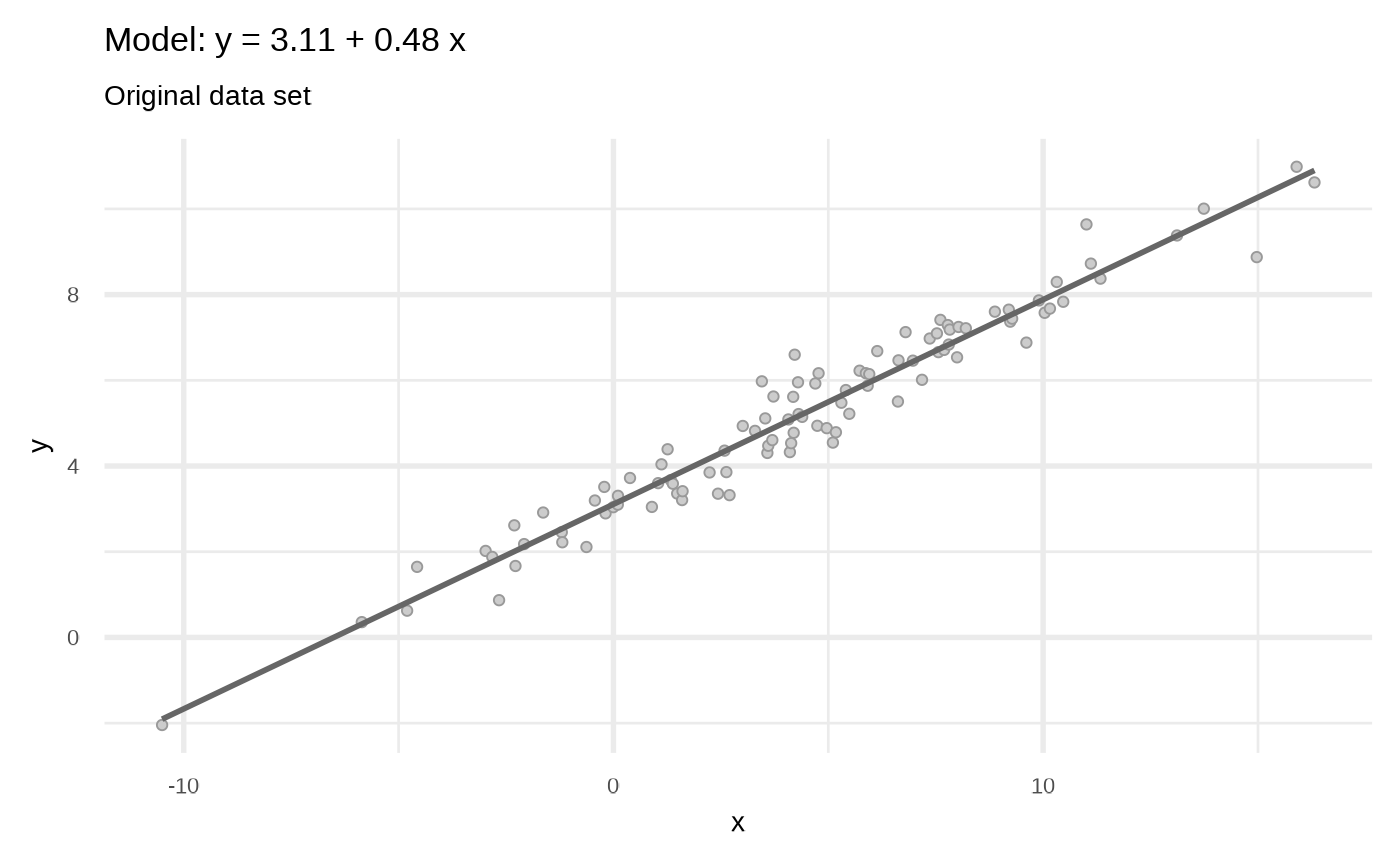
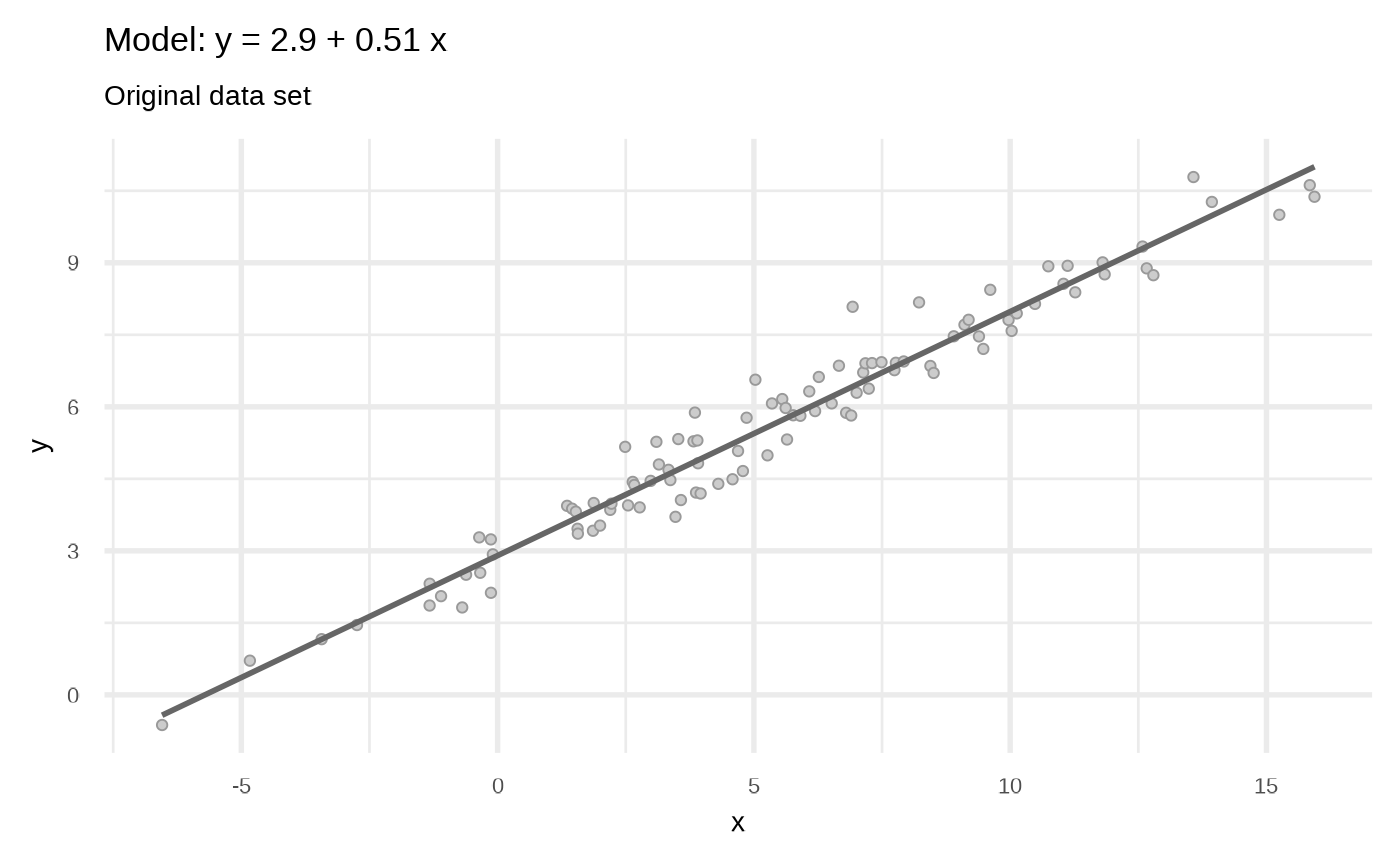
Built site for klassets: 0.0.0.9000@5ac02f5

diff --git a/articles/Quasi-Anscombe-data-sets.html b/articles/Quasi-Anscombe-data-sets.html
@@ -79,17 +79,17 @@
 
     
     
-<div class="sourceCode" id="cb1"><pre class="downlit sourceCode r">
-<code class="sourceCode R"><span class="kw"><a href="https://rdrr.io/r/base/library.html" class="external-link">library</a></span><span class="op">(</span><span class="va"><a href="https://jkunst.com/klassets/" class="external-link">klassets</a></span><span class="op">)</span>
-<span class="kw"><a href="https://rdrr.io/r/base/library.html" class="external-link">library</a></span><span class="op">(</span><span class="va"><a href="https://ggplot2.tidyverse.org" class="external-link">ggplot2</a></span><span class="op">)</span></code></pre></div>
 <div class="section level2">
 <h2 id="the-sets">The sets<a class="anchor" aria-label="anchor" href="#the-sets"></a>
 </h2>
 <div class="section level3">
 <h3 id="set-1-the-original">Set 1: The original<a class="anchor" aria-label="anchor" href="#set-1-the-original"></a>
 </h3>
-<div class="sourceCode" id="cb2"><pre class="downlit sourceCode r">
-<code class="sourceCode R"><span class="co"># df &lt;- sim_quasianscombe_set_1()</span>
+<div class="sourceCode" id="cb1"><pre class="downlit sourceCode r">
+<code class="sourceCode R"><span class="kw"><a href="https://rdrr.io/r/base/library.html" class="external-link">library</a></span><span class="op">(</span><span class="va"><a href="https://jkunst.com/klassets/" class="external-link">klassets</a></span><span class="op">)</span>
+<span class="kw"><a href="https://rdrr.io/r/base/library.html" class="external-link">library</a></span><span class="op">(</span><span class="va"><a href="https://ggplot2.tidyverse.org" class="external-link">ggplot2</a></span><span class="op">)</span>
+
+<span class="fu"><a href="https://rdrr.io/r/base/Random.html" class="external-link">set.seed</a></span><span class="op">(</span><span class="fl">123</span><span class="op">)</span>
 
 <span class="va">df</span> <span class="op">&lt;-</span> <span class="fu"><a href="../reference/sim_quasianscombe_set_1.html">sim_quasianscombe_set_1</a></span><span class="op">(</span>n <span class="op">=</span> <span class="fl">100</span>, x_sd <span class="op">=</span> <span class="fl">5</span><span class="op">)</span>
 
@@ -102,7 +102,7 @@
 <div class="section level3">
 <h3 id="set-4-no-linear-relationship">Set 4: No linear relationship<a class="anchor" aria-label="anchor" href="#set-4-no-linear-relationship"></a>
 </h3>
-<div class="sourceCode" id="cb3"><pre class="downlit sourceCode r">
+<div class="sourceCode" id="cb2"><pre class="downlit sourceCode r">
 <code class="sourceCode R"><span class="va">func</span> <span class="op">&lt;-</span> <span class="kw">function</span><span class="op">(</span><span class="va">x</span><span class="op">)</span> <span class="op">{</span> <span class="fl">2</span> <span class="op">*</span> <span class="va">x</span><span class="op">^</span><span class="fl">2</span>  <span class="op">}</span>
 
 <span class="va">df2_1</span> <span class="op">&lt;-</span> <span class="fu"><a href="../reference/sim_quasianscombe_set_2.html">sim_quasianscombe_set_2</a></span><span class="op">(</span><span class="va">df</span>, residual_factor <span class="op">=</span> <span class="fl">0</span>, fun <span class="op">=</span> <span class="va">func</span><span class="op">)</span>
@@ -114,7 +114,7 @@
 <div class="section level3">
 <h3 id="set-3-extreme-values">Set 3: Extreme values<a class="anchor" aria-label="anchor" href="#set-3-extreme-values"></a>
 </h3>
-<div class="sourceCode" id="cb4"><pre class="downlit sourceCode r">
+<div class="sourceCode" id="cb3"><pre class="downlit sourceCode r">
 <code class="sourceCode R"><span class="va">df3_1</span> <span class="op">&lt;-</span> <span class="fu"><a href="../reference/sim_quasianscombe_set_3.html">sim_quasianscombe_set_3</a></span><span class="op">(</span><span class="va">df</span>, prop <span class="op">=</span> <span class="fl">0.10</span><span class="op">)</span>
 
 <span class="va">df3_2</span> <span class="op">&lt;-</span> <span class="fu"><a href="../reference/sim_quasianscombe_set_3.html">sim_quasianscombe_set_3</a></span><span class="op">(</span><span class="va">df</span>, prop <span class="op">=</span> <span class="fl">0.15</span>, residual_factor <span class="op">=</span> <span class="fl">0</span><span class="op">)</span></code></pre></div>
@@ -122,7 +122,7 @@
 <div class="section level3">
 <h3 id="set-4-clusters">Set 4: Clusters<a class="anchor" aria-label="anchor" href="#set-4-clusters"></a>
 </h3>
-<div class="sourceCode" id="cb5"><pre class="downlit sourceCode r">
+<div class="sourceCode" id="cb4"><pre class="downlit sourceCode r">
 <code class="sourceCode R"><span class="va">df4_1</span> <span class="op">&lt;-</span> <span class="fu"><a href="../reference/sim_quasianscombe_set_4.html">sim_quasianscombe_set_4</a></span><span class="op">(</span><span class="va">df</span>, prop <span class="op">=</span> <span class="fl">0.25</span><span class="op">)</span>
 
 <span class="va">df4_2</span> <span class="op">&lt;-</span> <span class="fu"><a href="../reference/sim_quasianscombe_set_4.html">sim_quasianscombe_set_4</a></span><span class="op">(</span><span class="va">df</span>, rescale_to <span class="op">=</span> <span class="fu"><a href="https://rdrr.io/r/base/c.html" class="external-link">c</a></span><span class="op">(</span><span class="fl">0</span>, <span class="fl">.1</span><span class="op">)</span>, prop <span class="op">=</span> <span class="fl">0.5</span><span class="op">)</span></code></pre></div>
@@ -130,7 +130,7 @@
 <div class="section level3">
 <h3 id="set-5-heteroskedasticity">Set 5: Heteroskedasticity<a class="anchor" aria-label="anchor" href="#set-5-heteroskedasticity"></a>
 </h3>
-<div class="sourceCode" id="cb6"><pre class="downlit sourceCode r">
+<div class="sourceCode" id="cb5"><pre class="downlit sourceCode r">
 <code class="sourceCode R"><span class="va">df5_1</span> <span class="op">&lt;-</span> <span class="fu"><a href="../reference/sim_quasianscombe_set_5.html">sim_quasianscombe_set_5</a></span><span class="op">(</span><span class="va">df</span>, residual_factor <span class="op">=</span> <span class="fl">2</span><span class="op">)</span>
 
 <span class="va">df5_2</span> <span class="op">&lt;-</span> <span class="fu"><a href="../reference/sim_quasianscombe_set_5.html">sim_quasianscombe_set_5</a></span><span class="op">(</span><span class="va">df</span>, fun <span class="op">=</span> <span class="kw">function</span><span class="op">(</span><span class="va">x</span><span class="op">)</span> <span class="fu"><a href="https://rdrr.io/r/base/rev.html" class="external-link">rev</a></span><span class="op">(</span><span class="va">x</span><span class="op">**</span><span class="fl">2</span><span class="op">)</span><span class="op">)</span></code></pre></div>
@@ -138,7 +138,7 @@
 <div class="section level3">
 <h3 id="set-6-simpsons-paradox">Set 6: Simpson’s Paradox<a class="anchor" aria-label="anchor" href="#set-6-simpsons-paradox"></a>
 </h3>
-<div class="sourceCode" id="cb7"><pre class="downlit sourceCode r">
+<div class="sourceCode" id="cb6"><pre class="downlit sourceCode r">
 <code class="sourceCode R"><span class="va">df6_1</span> <span class="op">&lt;-</span> <span class="fu"><a href="../reference/sim_quasianscombe_set_6.html">sim_quasianscombe_set_6</a></span><span class="op">(</span><span class="va">df</span>, residual_factor <span class="op">=</span> <span class="fl">1</span><span class="op">)</span>
 
 <span class="va">df6_2</span> <span class="op">&lt;-</span> <span class="fu"><a href="../reference/sim_quasianscombe_set_6.html">sim_quasianscombe_set_6</a></span><span class="op">(</span><span class="va">df</span>, groups <span class="op">=</span> <span class="fl">4</span>, b1_factor <span class="op">=</span> <span class="fl">0</span>, residual_factor <span class="op">=</span> <span class="fl">0.1</span><span class="op">)</span></code></pre></div>
@@ -147,7 +147,7 @@
 <div class="section level2">
 <h2 id="combine-results">Combine results<a class="anchor" aria-label="anchor" href="#combine-results"></a>
 </h2>
-<div class="sourceCode" id="cb8"><pre class="downlit sourceCode r">
+<div class="sourceCode" id="cb7"><pre class="downlit sourceCode r">
 <code class="sourceCode R"><span class="kw"><a href="https://rdrr.io/r/base/library.html" class="external-link">library</a></span><span class="op">(</span><span class="va"><a href="https://dplyr.tidyverse.org" class="external-link">dplyr</a></span>, warn.conflicts <span class="op">=</span> <span class="cn">FALSE</span><span class="op">)</span>
 <span class="kw"><a href="https://rdrr.io/r/base/library.html" class="external-link">library</a></span><span class="op">(</span><span class="va"><a href="https://tidyr.tidyverse.org" class="external-link">tidyr</a></span><span class="op">)</span>
 <span class="kw"><a href="https://rdrr.io/r/base/library.html" class="external-link">library</a></span><span class="op">(</span><span class="va"><a href="http://purrr.tidyverse.org" class="external-link">purrr</a></span><span class="op">)</span>
@@ -171,7 +171,7 @@
   <span class="fu">tibble</span><span class="fu">::</span><span class="fu"><a href="https://tibble.tidyverse.org/reference/enframe.html" class="external-link">enframe</a></span><span class="op">(</span>name <span class="op">=</span> <span class="st">"set"</span><span class="op">)</span> |&gt; 
   <span class="fu">tidyr</span><span class="fu">::</span><span class="fu"><a href="https://tidyr.tidyverse.org/reference/nest.html" class="external-link">unnest</a></span><span class="op">(</span>cols <span class="op">=</span> <span class="fu"><a href="https://rdrr.io/r/base/c.html" class="external-link">c</a></span><span class="op">(</span><span class="va">value</span><span class="op">)</span><span class="op">)</span></code></pre></div>
 <p>From <span class="citation">[@warnes]</span>(<a href="https://github.com/warnes" class="external-link uri">https://github.com/warnes</a>) <a href="https://github.com/r-gregmisc/gtools/blob/master/R/stars.pval.R" class="external-link">gtools</a> package</p>
-<div class="sourceCode" id="cb9"><pre class="downlit sourceCode r">
+<div class="sourceCode" id="cb8"><pre class="downlit sourceCode r">
 <code class="sourceCode R"><span class="va">stars.pval</span> <span class="op">&lt;-</span> <span class="kw">function</span><span class="op">(</span><span class="va">p.value</span><span class="op">)</span> <span class="op">{</span>
   <span class="fu"><a href="https://rdrr.io/r/base/class.html" class="external-link">unclass</a></span><span class="op">(</span>
     <span class="fu"><a href="https://rdrr.io/r/stats/symnum.html" class="external-link">symnum</a></span><span class="op">(</span><span class="va">p.value</span>,
@@ -184,7 +184,7 @@
 <div class="section level3">
 <h3 id="visual-representation-of-the-data-sets">Visual representation of the data sets<a class="anchor" aria-label="anchor" href="#visual-representation-of-the-data-sets"></a>
 </h3>
-<div class="sourceCode" id="cb10"><pre class="downlit sourceCode r">
+<div class="sourceCode" id="cb9"><pre class="downlit sourceCode r">
 <code class="sourceCode R"><span class="va">pxy</span> <span class="op">&lt;-</span> <span class="fu"><a href="https://ggplot2.tidyverse.org/reference/ggplot.html" class="external-link">ggplot</a></span><span class="op">(</span><span class="va">dfs</span>, <span class="fu"><a href="https://ggplot2.tidyverse.org/reference/aes.html" class="external-link">aes</a></span><span class="op">(</span><span class="va">x</span>, <span class="va">y</span><span class="op">)</span><span class="op">)</span> <span class="op">+</span>
   <span class="fu"><a href="https://ggplot2.tidyverse.org/reference/geom_point.html" class="external-link">geom_point</a></span><span class="op">(</span>shape <span class="op">=</span> <span class="fl">21</span>, fill <span class="op">=</span> <span class="st">"gray80"</span>, color <span class="op">=</span> <span class="st">"gray60"</span><span class="op">)</span> <span class="op">+</span>
   <span class="fu"><a href="https://ggplot2.tidyverse.org/reference/geom_smooth.html" class="external-link">geom_smooth</a></span><span class="op">(</span>method <span class="op">=</span> <span class="st">"lm"</span>, se <span class="op">=</span> <span class="cn">FALSE</span>, formula <span class="op">=</span> <span class="va">y</span> <span class="op">~</span> <span class="va">x</span><span class="op">)</span> <span class="op">+</span>
@@ -196,7 +196,7 @@
 <div class="section level3">
 <h3 id="checking-coefficients-and-its-significance">Checking Coefficients and its significance<a class="anchor" aria-label="anchor" href="#checking-coefficients-and-its-significance"></a>
 </h3>
-<div class="sourceCode" id="cb11"><pre class="downlit sourceCode r">
+<div class="sourceCode" id="cb10"><pre class="downlit sourceCode r">
 <code class="sourceCode R"><span class="va">df_mods</span> <span class="op">&lt;-</span> <span class="va">dfs</span> |&gt; 
   <span class="fu">dplyr</span><span class="fu">::</span><span class="fu"><a href="https://dplyr.tidyverse.org/reference/group_nest.html" class="external-link">group_nest</a></span><span class="op">(</span><span class="va">set</span><span class="op">)</span> |&gt; 
   <span class="fu">dplyr</span><span class="fu">::</span><span class="fu"><a href="https://dplyr.tidyverse.org/reference/mutate.html" class="external-link">mutate</a></span><span class="op">(</span>
@@ -215,16 +215,16 @@
 <span class="co">#&gt; <span style="color: #949494;"># A tibble: 22 × 7</span></span>
 <span class="co">#&gt;    set      term        estimate std.error statistic  p.value sig  </span>
 <span class="co">#&gt;    <span style="color: #949494; font-style: italic;">&lt;chr&gt;</span>    <span style="color: #949494; font-style: italic;">&lt;chr&gt;</span>          <span style="color: #949494; font-style: italic;">&lt;dbl&gt;</span>     <span style="color: #949494; font-style: italic;">&lt;dbl&gt;</span>     <span style="color: #949494; font-style: italic;">&lt;dbl&gt;</span>    <span style="color: #949494; font-style: italic;">&lt;dbl&gt;</span> <span style="color: #949494; font-style: italic;">&lt;chr&gt;</span></span>
-<span class="co">#&gt; <span style="color: #BCBCBC;"> 1</span> Original (Intercept)    3.11     0.070<span style="text-decoration: underline;">9</span>     43.8  3.36<span style="color: #949494;">e</span><span style="color: #BB0000;">-66</span> ***  </span>
-<span class="co">#&gt; <span style="color: #BCBCBC;"> 2</span> Original x              0.478    0.010<span style="text-decoration: underline;">9</span>     44.0  2.43<span style="color: #949494;">e</span><span style="color: #BB0000;">-66</span> ***  </span>
-<span class="co">#&gt; <span style="color: #BCBCBC;"> 3</span> Set 2 v1 (Intercept)    3.11     0.428       7.27 9.05<span style="color: #949494;">e</span><span style="color: #BB0000;">-11</span> ***  </span>
-<span class="co">#&gt; <span style="color: #BCBCBC;"> 4</span> Set 2 v1 x              0.478    0.065<span style="text-decoration: underline;">5</span>      7.29 8.00<span style="color: #949494;">e</span><span style="color: #BB0000;">-11</span> ***  </span>
-<span class="co">#&gt; <span style="color: #BCBCBC;"> 5</span> Set 2 v2 (Intercept)    3.11     0.217      14.3  8.80<span style="color: #949494;">e</span><span style="color: #BB0000;">-26</span> ***  </span>
-<span class="co">#&gt; <span style="color: #BCBCBC;"> 6</span> Set 2 v2 x              0.478    0.033<span style="text-decoration: underline;">2</span>     14.4  6.93<span style="color: #949494;">e</span><span style="color: #BB0000;">-26</span> ***  </span>
-<span class="co">#&gt; <span style="color: #BCBCBC;"> 7</span> Set 3 v1 (Intercept)    3.11     0.338       9.19 6.79<span style="color: #949494;">e</span><span style="color: #BB0000;">-15</span> ***  </span>
-<span class="co">#&gt; <span style="color: #BCBCBC;"> 8</span> Set 3 v1 x              0.478    0.051<span style="text-decoration: underline;">8</span>      9.23 5.79<span style="color: #949494;">e</span><span style="color: #BB0000;">-15</span> ***  </span>
-<span class="co">#&gt; <span style="color: #BCBCBC;"> 9</span> Set 3 v2 (Intercept)    3.11     0.297      10.5  1.18<span style="color: #949494;">e</span><span style="color: #BB0000;">-17</span> ***  </span>
-<span class="co">#&gt; <span style="color: #BCBCBC;">10</span> Set 3 v2 x              0.477    0.045<span style="text-decoration: underline;">5</span>     10.5  9.81<span style="color: #949494;">e</span><span style="color: #BB0000;">-18</span> ***  </span>
+<span class="co">#&gt; <span style="color: #BCBCBC;"> 1</span> Original (Intercept)    2.90     0.075<span style="text-decoration: underline;">7</span>     38.3  8.49<span style="color: #949494;">e</span><span style="color: #BB0000;">-61</span> ***  </span>
+<span class="co">#&gt; <span style="color: #BCBCBC;"> 2</span> Original x              0.508    0.010<span style="text-decoration: underline;">7</span>     47.6  1.42<span style="color: #949494;">e</span><span style="color: #BB0000;">-69</span> ***  </span>
+<span class="co">#&gt; <span style="color: #BCBCBC;"> 3</span> Set 2 v1 (Intercept)    2.90     0.430       6.75 1.05<span style="color: #949494;">e</span><span style="color: #BB0000;">- 9</span> ***  </span>
+<span class="co">#&gt; <span style="color: #BCBCBC;"> 4</span> Set 2 v1 x              0.508    0.060<span style="text-decoration: underline;">6</span>      8.39 3.74<span style="color: #949494;">e</span><span style="color: #BB0000;">-13</span> ***  </span>
+<span class="co">#&gt; <span style="color: #BCBCBC;"> 5</span> Set 2 v2 (Intercept)    2.90     0.245      11.8  1.34<span style="color: #949494;">e</span><span style="color: #BB0000;">-20</span> ***  </span>
+<span class="co">#&gt; <span style="color: #BCBCBC;"> 6</span> Set 2 v2 x              0.508    0.034<span style="text-decoration: underline;">6</span>     14.7  1.54<span style="color: #949494;">e</span><span style="color: #BB0000;">-26</span> ***  </span>
+<span class="co">#&gt; <span style="color: #BCBCBC;"> 7</span> Set 3 v1 (Intercept)    2.90     0.395       7.35 5.90<span style="color: #949494;">e</span><span style="color: #BB0000;">-11</span> ***  </span>
+<span class="co">#&gt; <span style="color: #BCBCBC;"> 8</span> Set 3 v1 x              0.508    0.055<span style="text-decoration: underline;">6</span>      9.14 8.93<span style="color: #949494;">e</span><span style="color: #BB0000;">-15</span> ***  </span>
+<span class="co">#&gt; <span style="color: #BCBCBC;"> 9</span> Set 3 v2 (Intercept)    2.90     0.359       8.08 1.70<span style="color: #949494;">e</span><span style="color: #BB0000;">-12</span> ***  </span>
+<span class="co">#&gt; <span style="color: #BCBCBC;">10</span> Set 3 v2 x              0.508    0.050<span style="text-decoration: underline;">6</span>     10.0  9.76<span style="color: #949494;">e</span><span style="color: #BB0000;">-17</span> ***  </span>
 <span class="co">#&gt; <span style="color: #949494;"># … with 12 more rows</span></span>
 
 <span class="va">dfcoef</span> |&gt; 
@@ -233,17 +233,17 @@
 <span class="co">#&gt; <span style="color: #949494;"># A tibble: 11 × 3</span></span>
 <span class="co">#&gt;    set      `(Intercept)`     x</span>
 <span class="co">#&gt;    <span style="color: #949494; font-style: italic;">&lt;chr&gt;</span>            <span style="color: #949494; font-style: italic;">&lt;dbl&gt;</span> <span style="color: #949494; font-style: italic;">&lt;dbl&gt;</span></span>
-<span class="co">#&gt; <span style="color: #BCBCBC;"> 1</span> Original          3.11 0.478</span>
-<span class="co">#&gt; <span style="color: #BCBCBC;"> 2</span> Set 2 v1          3.11 0.478</span>
-<span class="co">#&gt; <span style="color: #BCBCBC;"> 3</span> Set 2 v2          3.11 0.478</span>
-<span class="co">#&gt; <span style="color: #BCBCBC;"> 4</span> Set 3 v1          3.11 0.478</span>
-<span class="co">#&gt; <span style="color: #BCBCBC;"> 5</span> Set 3 v2          3.11 0.477</span>
-<span class="co">#&gt; <span style="color: #BCBCBC;"> 6</span> Set 4 v1          3.11 0.477</span>
-<span class="co">#&gt; <span style="color: #BCBCBC;"> 7</span> Set 4 v2          3.11 0.478</span>
-<span class="co">#&gt; <span style="color: #BCBCBC;"> 8</span> Set 5 v1          3.11 0.478</span>
-<span class="co">#&gt; <span style="color: #BCBCBC;"> 9</span> Set 5 v2          3.11 0.478</span>
-<span class="co">#&gt; <span style="color: #BCBCBC;">10</span> Set 6 v1          3.11 0.477</span>
-<span class="co">#&gt; <span style="color: #BCBCBC;">11</span> Set 6 v2          3.11 0.477</span></code></pre></div>
+<span class="co">#&gt; <span style="color: #BCBCBC;"> 1</span> Original          2.90 0.508</span>
+<span class="co">#&gt; <span style="color: #BCBCBC;"> 2</span> Set 2 v1          2.90 0.508</span>
+<span class="co">#&gt; <span style="color: #BCBCBC;"> 3</span> Set 2 v2          2.90 0.508</span>
+<span class="co">#&gt; <span style="color: #BCBCBC;"> 4</span> Set 3 v1          2.90 0.508</span>
+<span class="co">#&gt; <span style="color: #BCBCBC;"> 5</span> Set 3 v2          2.90 0.508</span>
+<span class="co">#&gt; <span style="color: #BCBCBC;"> 6</span> Set 4 v1          2.90 0.508</span>
+<span class="co">#&gt; <span style="color: #BCBCBC;"> 7</span> Set 4 v2          2.90 0.508</span>
+<span class="co">#&gt; <span style="color: #BCBCBC;"> 8</span> Set 5 v1          2.90 0.508</span>
+<span class="co">#&gt; <span style="color: #BCBCBC;"> 9</span> Set 5 v2          2.90 0.508</span>
+<span class="co">#&gt; <span style="color: #BCBCBC;">10</span> Set 6 v1          2.90 0.508</span>
+<span class="co">#&gt; <span style="color: #BCBCBC;">11</span> Set 6 v2          2.90 0.508</span></code></pre></div>
 </div>
 </div>
   </main><aside class="col-md-3"><nav id="toc"><h2>On this page</h2>

diff --git a/index.html b/index.html
@@ -97,7 +97,7 @@
 
 <span class="fu"><a href="https://rdrr.io/r/graphics/plot.default.html" class="external-link">plot</a></span><span class="op">(</span><span class="va">df2</span><span class="op">)</span> <span class="op">+</span> <span class="fu"><a href="https://rdrr.io/r/graphics/plot.default.html" class="external-link">plot</a></span><span class="op">(</span><span class="va">df6</span><span class="op">)</span></code></pre></div>
 <p><img src="reference/figures/README-unnamed-chunk-4-1.png" width="100%"></p>
-<p>More details in the articles section!</p>
+<p>More details in the articles section or <code><a href="articles/Quasi-Anscombe-data-sets.html">vignette("Quasi-Anscombe-data-sets")</a></code>.</p>
 <div class="section level2">
 <h2 id="installation">Installation<a class="anchor" aria-label="anchor" href="#installation"></a>
 </h2>
